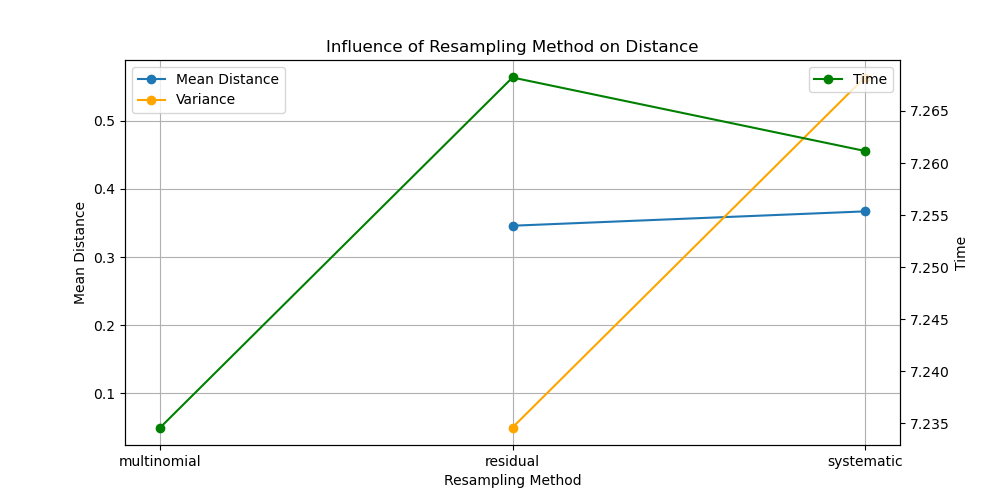
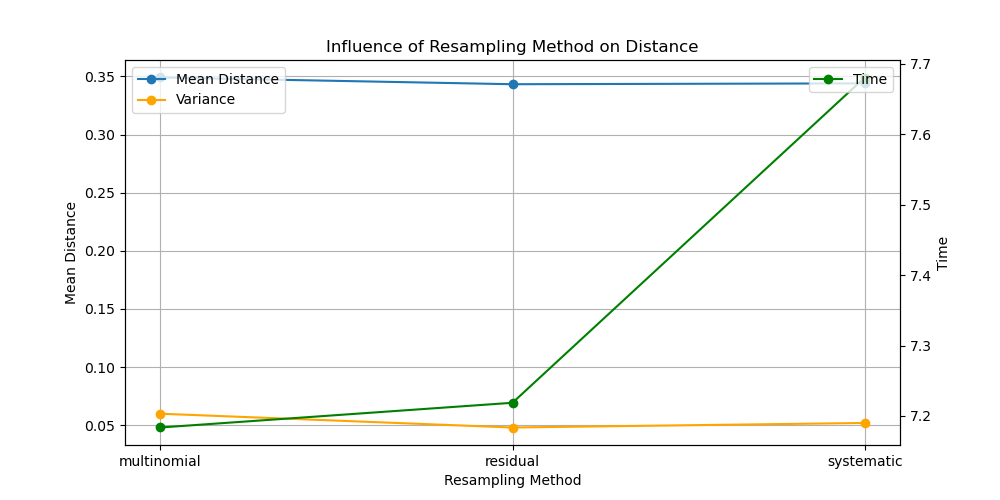
CA MAAAAAAAAAAAAAAAAAAAAAAAAAAAAAAAAAAAAAAAAAAAAAAAAaaaaaaaarche

diff --git a/measures.py b/measures.py
@@ -8,6 +8,8 @@ import numpy as np
 import matplotlib.pyplot as plt
 import time
 import math
+from tqdm import tqdm
+
 
 # Parameters
 sigma = 10.0
@@ -112,66 +114,28 @@ if experience == 2:
 
     loop = 10
     mean_distance_methods = np.zeros(len(resampling_methods))
-    
-    for i in range(len(resampling_methods)):
-        filter.change_resampling(resampling_methods[i])
-        l1, l2, l3, l4 = [], [], [], []
-        for j in range(loop):
-            start = time.time()
-            filtered_observation = filter.compute()
-            l1.append(start-time.time())
-
-
-    
-if experience == 2:
-    LorentzSystem.h = 0.02
-    measurement_noise = 1
-    resampling_methods = ['multinomial', 'residual', 'systematic']
-    states = LorentzSystem.compute()
-    observations = np.random.normal(states, measurement_noise, (len(states), 3))
-    toolBox.real_states = states
-    filter = ParticleFilter(observations, N, h, measurement_noise, process_noise, initial_state, sigma, rho, beta)
-
-    loop = 10
-    mean_distance = np.zeros(len(resampling_methods))
-    std_distance = np.zeros(len(resampling_methods))
-    distances = [[] for _ in range(len(resampling_methods))]
+    std_distance_methods = np.zeros(len(resampling_methods))
+    var_methods = np.zeros(len(resampling_methods))
     temps = np.zeros(len(resampling_methods))
-    for i in range(len(resampling_methods)):
-        # print(f"Computing for resampling method={resampling_methods[i]}")
-        filter.change_resampling(resampling_methods[i])
 
-        l1, l2, l3, l4 = [], [], [], []
-        for j in range(loop):
+    for i in tqdm(range(len(resampling_methods))):
+        filter.change_resampling(resampling_methods[i])
+        l1, l2 = [], []
+        for j in tqdm(range(loop)):
             start = time.time()
             filtered_observation = filter.compute()
+            l1.append(time.time() - start)
             toolBox.approx_states = filtered_observation
-            distance, mean, std = toolBox.distance_p2p()
-            print(f"Mean distance for resampling method={resampling_methods[i]}: {mean}, Std distance: {std}")
-            print(distance)
-            l2.append(mean)
-            l3.append(std)
-            l4.append(time.time() - start)
-
-        mean_std_distance = np.mean(l2)
-        mean_var = np.mean(l3)
-        mean_temps = np.mean(l4)
-
+            distance, _, _ = toolBox.distance_p2p()
+            l2.append(distance)
         
+        temps[i] = np.mean(l1)
+        mean_distance_methods[i] = np.mean(l2)
+        std_distance_methods[i] = np.std(l2)
+        var_methods[i] = np.var(l2)
 
-        # filtered_observation = filter.compute()
-        # temps[i] = time.time() - start
-        # toolBox.approx_states = filtered_observation
-        # distance, mean, std = toolBox.distance_p2p()
-        # distances[i] = distance
-        # mean_distance[i] = mean
-        # std_distance[i] = std
-        # var = np.square(std_distance)
-        # print(f"Mean distance for resampling method={resampling_methods[i]}: {mean}, Std distance: {std}")
-
-
-
-    data = np.array([mean_mean_distance, mean_std_distance, mean_var, mean_temps]).T
+    
+    data = np.array([mean_distance_methods, std_distance_methods, var_methods, temps]).T
     np.savetxt("./data/resampling.csv", data, delimiter=";", header="Mean,Std,Var", comments='')
     
 
